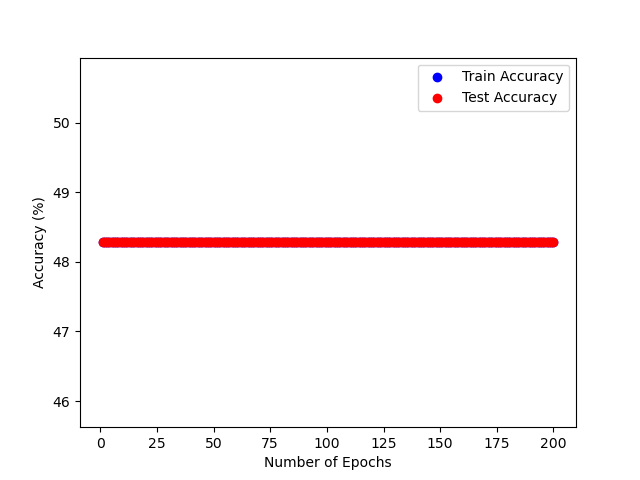
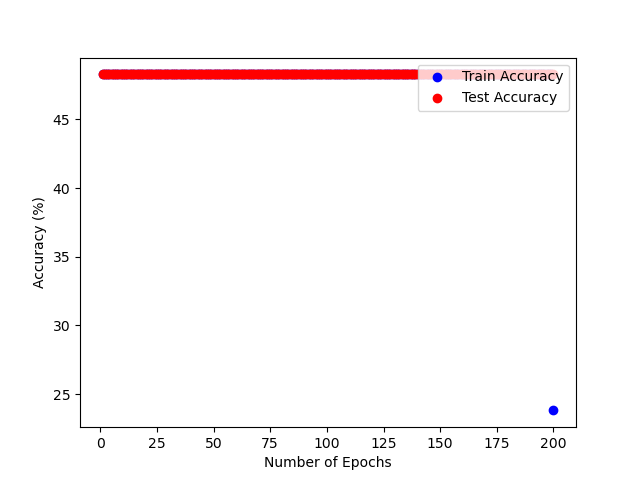
add cyclic time feature

diff --git a/AnimalPathsDataset.py b/AnimalPathsDataset.py
@@ -1,8 +1,10 @@
 # Code adapted from:
 # https://pytorch.org/tutorials/recipes/recipes/custom_dataset_transforms_loader.html
+import math
 import torch
 import numpy as np
 import pandas as pd
+from datetime import datetime
 
 # Numerical path segment labels
 WINTER_HOME = 0
@@ -11,14 +13,18 @@ MIGRATING = 2
 # Keep track of all possible categories
 ALL_CATEGORIES = ["WINTER_HOME", "SUMMER_HOME", "MIGRATING"]
 # Define strings for the column/feature names used
-IDENTIFIER = "individual-local-identifier"  # +1 feature
+IDENTIFIER = "individual-local-identifier"
 LATITUDE = "location-lat"  # +1 feature
 LONGITUDE = "location-long"  # +1 feature
-TIMESTAMP = "timestamp"  # # +4 features (year, month, day, unixtime)
+TIMESTAMP = "timestamp"  # # +6 features (Y, M, D, unix, sin, cos)
 YEAR = "Year"
 MONTH = "Month"
 DAY = "Day"
 UNIXTIME = "UnixTime"
+SINTIME = "SinTime"
+COSTIME = "CosTime"
+# Seconds in a year (i.e., 365.25 * 24 * 60 * 60)
+SECONDS_IN_YEAR = 31_536_000
 # Used for the output CSV
 OUTPUT_FIELDNAMES = [
     "Correct",
@@ -31,9 +37,11 @@ OUTPUT_FIELDNAMES = [
     MONTH,
     DAY,
     UNIXTIME,
+    SINTIME,
+    COSTIME,
 ]
 # # Keep track of total number of input features
-# N_FEATURES = 7
+# N_FEATURES = 8
 
 
 class AnimalPathsDataset(torch.utils.data.Dataset):
@@ -90,20 +98,44 @@ class AnimalPathsDataset(torch.utils.data.Dataset):
         df = self.transform_time_features(df)
         return df
 
+    def cyclic_time(self, dt):
+        """
+        Use a datetime input to calculate the
+        number of seconds since the start of the year and the period of the cycle
+        (e.g., number of seconds in a day, a week, or a year).
+        Return the sine and cosine values of the angle between the time and the cycle.
+        """
+        # Build the datetime for the start of the timestamp's year
+        start_of_year = datetime(dt.year, 1, 1)
+        # Calculate the number of seconds since the start of the timestamp's year
+        seconds_since_year_start = (dt - start_of_year).total_seconds()
+        # Set the period of the cycle to the total number of seconds in a year
+        period = SECONDS_IN_YEAR
+        # Caculate cylic time
+        angle = 2 * math.pi * seconds_since_year_start / period
+        sin_time = math.sin(angle)
+        cos_time = math.cos(angle)
+        return sin_time, cos_time
+
     def transform_time_features(self, df):
         """
         Return vector of numerical time features:
-        integers for date values, and float for Unix time
+        - integers for Year, Month, and Day values
+        - float for Unix time
+        - floats for sin/cos time (cyclical)
         """
         df[TIMESTAMP] = pd.to_datetime(df[TIMESTAMP])
         df[YEAR] = df[TIMESTAMP].dt.year
         df[MONTH] = df[TIMESTAMP].dt.month
         df[DAY] = df[TIMESTAMP].dt.day
         df[UNIXTIME] = df[TIMESTAMP].apply(lambda x: x.timestamp())
+        # Represent the time as a cyclic feature for seasons
+        df[[SINTIME, COSTIME]] = df[TIMESTAMP].apply(
+            lambda x: pd.Series(self.cyclic_time(x))
+        )
         # Delete the original "timestamp" column
         del df[TIMESTAMP]
-        # TODO: Account for cyclical seasons in a year
-        # sin/cos applied to `seconds_since_NYE` to capture circularity
+        # Return the transformed dataframe
         return df
 
     def get_segment_label(self, lat):

diff --git a/save_and_load.py b/save_and_load.py
@@ -38,11 +38,10 @@ def load_model(model, optimizer):
     return model, optimizer, saved_state["epoch"]
 
 
-def write_output_csv(outname, predictions, fieldnames):
+def write_output_csv(csv_name, predictions, fieldnames):
     """
     Write model predictions to output CSV
     """
-    csv_name = "predictions_" + outname
     output_csv = PREDICTIONS_DIR + csv_name
     print("Write the predictions output to: {}...".format(output_csv))
     with open(output_csv, "w", newline="") as csvfile:

diff --git a/run_model.py b/run_model.py
@@ -26,7 +26,7 @@ N_EPOCHS = 200
 BATCH_SIZE = 1
 LOG_INTERVAL = 1
 # Model parameters
-INPUT_SIZE = 6  # number of features / covariates
+INPUT_SIZE = 8  # number of features / covariates
 HIDDEN_SIZE = 10  # tunable hyperparameter
 OUTPUT_SIZE = 3  # N_categories: winterhome, summerhome, migrating
 # Optimizer hyperparameters

diff --git a/test_process.py b/test_process.py
@@ -14,7 +14,7 @@ from utils import (
 
 # Specify the epochs interval
 # to save an output CSV of predictions
-SAVE_PREDICTIONS_EVERY = 10  # epochs
+SAVE_PREDICTIONS_EVERY = 20  # epochs
 
 
 def test(model, criterion, labels_tensor, inputs_tensor):
